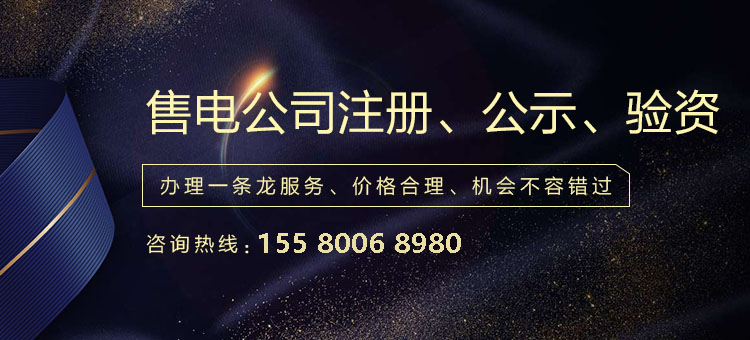
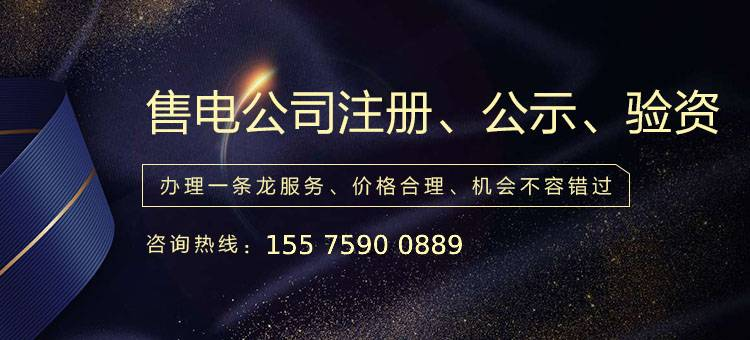
更换号码

diff --git a/h5/src/index.html b/h5/src/index.html
@@ -10,6 +10,9 @@
 		content="长沙迪博-专业的企业财务服务公司,长沙代理记账,公司注册,公司刻章,公司变更,公司注销,个体户注销,异常移出,代理记账,纳税申报,税盘托管,发票领购,个体户建账,财务整理,财税筹划,财务年检,执照年检,银行开户,公积金代办,社保代办,商标注册,商标转让,商标续展,版权申请,专利申请等数十个便捷、诚信的服务，为您提供愉悦的企业服务体验!">
 	<meta name="viewport"
 		content="width=device-width,minimum-scale=1.0,maximum-scale=1.0,user-scalable=no,initial-scale=1.0" />
+	<meta http-equiv="Pragma" content="no-cache">
+	<meta http-equiv="Cache-Control" content="no-cache">
+	<meta http-equiv="Expires" content="0">
 	<meta name="format-detection" content="telephone=no,email=no" />
 	<link rel="stylesheet" type="text/css" href="css/swiper.min.css" />
 	<link rel="stylesheet" type="text/css" href="css/common.css" />
@@ -26,7 +29,7 @@
 					<section class="header_t">
 						<div class="tel">
 							<img class="handle-right" src="/images/hand-right.png"/>
-							<a href="tel:15580068980">
+							<a href="tel:15575900889">
 								<img style="margin-top:0" src="images/tel.png">
 							</a>
 							<a href="tel:18874874833">
@@ -63,29 +66,29 @@
 			<div>
 				<div class="swiper-container-toutiao">
 					<div class="swiper-wrapper">
-						<div class="swiper-slide"><span><a href="tel:15580068980">代理记账</span><i>自己不会、太麻烦，找我们啦</i></a></div>
-						<div class="swiper-slide"><span><a href="tel:15580068980">财务整理</span><i>财务太乱，需要整理</i></a></div>
-						<div class="swiper-slide"><span><a href="tel:15580068980">财税筹划</span><i>财税如何筹划</i></a></div>
-						<div class="swiper-slide"><span><a href="tel:15580068980">财务年检</span><i>年检需要的资料清单</i></a></div>
-						<div class="swiper-slide"><span><a href="tel:15580068980">银行开户</span><i>银行开户注意事项</i></a></div>
-						<div class="swiper-slide"><span><a href="tel:15580068980">社保代办</span><i>代办社保</i></a></div>
-						<div class="swiper-slide"><span><a href="tel:15580068980">个体户建账</span><i>个体户如何建账</i></a></div>
-						<div class="swiper-slide"><span><a href="tel:15580068980">公积金代办</span><i>代理办理公积金</i></a></div>
-						<div class="swiper-slide"><span><a href="tel:15580068980">商标注册</span><i>商标注册的用途</i></a></div>
-						<div class="swiper-slide"><span><a href="tel:15580068980">纳税申报</span><i>申报税务必备材料清单</i></a></div>
-						<div class="swiper-slide"><span><a href="tel:15580068980">公司注册</span><i>公司注册资本认缴制中的奥秘</i></a></div>
-						<div class="swiper-slide"><span><a href="tel:15580068980">公司刻章</span><i></i>刻章注意事项</a></div>
-						<div class="swiper-slide"><span><a href="tel:15580068980">公司变更</span><i>公司变更中的事项</i></a></div>
-						<div class="swiper-slide"><span><a href="tel:15580068980">公司注销</span><i>公司注销需要注意</i></a></div>
-						<div class="swiper-slide"><span><a href="tel:15580068980">异常移出</span><i>异常移出需要的资料清单</i></a></div>
-						<div class="swiper-slide"><span><a href="tel:15580068980">税盘托管</span><i>税盘托管的好处</i></a></div>
-						<div class="swiper-slide"><span><a href="tel:15580068980">发票领购</span><i>发票的注意事项</i></a></div>
-						<div class="swiper-slide"><span><a href="tel:15580068980">商标转让</span><i>商标如何转让</i></a></div>
-						<div class="swiper-slide"><span><a href="tel:15580068980">商标续展</span><i>商标如何续展</i></a></div>
-						<div class="swiper-slide"><span><a href="tel:15580068980">版权申请</span><i>版权的作用</i></a></div>
-						<div class="swiper-slide"><span><a href="tel:15580068980">专利申请</span><i>如何申请专利、申请专利有何用处</i></a>
+						<div class="swiper-slide"><span><a href="tel:15575900889">代理记账</span><i>自己不会、太麻烦，找我们啦</i></a></div>
+						<div class="swiper-slide"><span><a href="tel:15575900889">财务整理</span><i>财务太乱，需要整理</i></a></div>
+						<div class="swiper-slide"><span><a href="tel:15575900889">财税筹划</span><i>财税如何筹划</i></a></div>
+						<div class="swiper-slide"><span><a href="tel:15575900889">财务年检</span><i>年检需要的资料清单</i></a></div>
+						<div class="swiper-slide"><span><a href="tel:15575900889">银行开户</span><i>银行开户注意事项</i></a></div>
+						<div class="swiper-slide"><span><a href="tel:15575900889">社保代办</span><i>代办社保</i></a></div>
+						<div class="swiper-slide"><span><a href="tel:15575900889">个体户建账</span><i>个体户如何建账</i></a></div>
+						<div class="swiper-slide"><span><a href="tel:15575900889">公积金代办</span><i>代理办理公积金</i></a></div>
+						<div class="swiper-slide"><span><a href="tel:15575900889">商标注册</span><i>商标注册的用途</i></a></div>
+						<div class="swiper-slide"><span><a href="tel:15575900889">纳税申报</span><i>申报税务必备材料清单</i></a></div>
+						<div class="swiper-slide"><span><a href="tel:15575900889">公司注册</span><i>公司注册资本认缴制中的奥秘</i></a></div>
+						<div class="swiper-slide"><span><a href="tel:15575900889">公司刻章</span><i></i>刻章注意事项</a></div>
+						<div class="swiper-slide"><span><a href="tel:15575900889">公司变更</span><i>公司变更中的事项</i></a></div>
+						<div class="swiper-slide"><span><a href="tel:15575900889">公司注销</span><i>公司注销需要注意</i></a></div>
+						<div class="swiper-slide"><span><a href="tel:15575900889">异常移出</span><i>异常移出需要的资料清单</i></a></div>
+						<div class="swiper-slide"><span><a href="tel:15575900889">税盘托管</span><i>税盘托管的好处</i></a></div>
+						<div class="swiper-slide"><span><a href="tel:15575900889">发票领购</span><i>发票的注意事项</i></a></div>
+						<div class="swiper-slide"><span><a href="tel:15575900889">商标转让</span><i>商标如何转让</i></a></div>
+						<div class="swiper-slide"><span><a href="tel:15575900889">商标续展</span><i>商标如何续展</i></a></div>
+						<div class="swiper-slide"><span><a href="tel:15575900889">版权申请</span><i>版权的作用</i></a></div>
+						<div class="swiper-slide"><span><a href="tel:15575900889">专利申请</span><i>如何申请专利、申请专利有何用处</i></a>
 						</div>
-						<div class="swiper-slide"><span><a href="tel:15580068980">个体户注销</span><i>个体户如何注销</i></a></div>
+						<div class="swiper-slide"><span><a href="tel:15575900889">个体户注销</span><i>个体户如何注销</i></a></div>
 					</div>
 				</div>
 			</div>
@@ -96,57 +99,57 @@
 		
 		<article class="index_w">
 			<div class="index_w_o">
-				<div class="z"><a href="tel:15580068980"><img src="images/qyfw_logo.png"><span>企业服务</span></a></div>
-				<!-- <div class="y"><a href="tel:15580068980">更多></a></div> -->
+				<div class="z"><a href="tel:15575900889"><img src="images/qyfw_logo.png"><span>企业服务</span></a></div>
+				<!-- <div class="y"><a href="tel:15575900889">更多></a></div> -->
 			</div>
 			<div class="index_w_t p32">
 				<a href="/reg.html" class="a1">
 					<p class="p1">公司注册</p>
 					<p class="p2">专门渠道专人代办 3天拿照</p>
 				</a>
-				<a href="tel:15580068980" class="a2">
+				<a href="tel:15575900889" class="a2">
 					<p class="p1">公司刻章</p>
 					<p class="p2">简单快速 诚信办理</p>
 				</a>
-				<a href="tel:15580068980" class="a8">
+				<a href="tel:15575900889" class="a8">
 					<p class="p1">银行开户</p>
 					<p class="p2">安全快速 一键办理</p>
 				</a>
-				<a href="tel:15580068980" class="a10">
+				<a href="tel:15575900889" class="a10">
 					<p class="p1">社保代办</p>
 					<p class="p2">多年行业经验 值得交付</p>
 				</a>
-				<a href="tel:15580068980" class="a9">
+				<a href="tel:15575900889" class="a9">
 					<p class="p1">公积金代办</p>
 					<p class="p2">方便省心 低成本</p>
 				</a>
-				<a href="tel:15580068980" class="a7">
+				<a href="tel:15575900889" class="a7">
 					<p class="p1">执照年检</p>
 					<p class="p2">贴心省事 竭诚为您服务</p>
 				</a>
-				<a href="tel:15580068980" class="a15">
+				<a href="tel:15575900889" class="a15">
 					<p class="p1">财税筹划</p>
 					<p class="p2">多年行业经验 专业权威</p>
 				</a>
-				<a href="tel:15580068980" class="a21">
+				<a href="tel:15575900889" class="a21">
 					<p class="p1">税务年检</p>
 					<p class="p2">专业服务 保障您的权益</p>
 				</a>
 
-				<a href="tel:15580068980" class="a3">
+				<a href="tel:15575900889" class="a3">
 					<p class="p1">公司变更</p>
 					<p class="p2">专业律师把关 无后顾之忧</p>
 				</a>
-				<a href="tel:15580068980" class="a5">
+				<a href="tel:15575900889" class="a5">
 					<p class="p1">异常移出</p>
 					<p class="p2">全程代办 一站式服务</p>
 				</a>
 
-				<a href="tel:15580068980" class="a4">
+				<a href="tel:15575900889" class="a4">
 					<p class="p1">公司注销</p>
 					<p class="p2">一站式服务 省心高效</p>
 				</a>
-				<a href="tel:15580068980" class="a5">
+				<a href="tel:15575900889" class="a5">
 					<p class="p1">个体户注销</p>
 					<p class="p2">省心省力 贴心服务</p>
 				</a>
@@ -154,31 +157,31 @@
 		</article>
 		<article class="index_w index_j">
 			<div class="index_w_o">
-				<div class="z"><a href="tel:15580068980"><img src="images/cssj_logo.png"><span>财税服务</span></a></div>
-				<!-- <div class="y"><a href="tel:15580068980">更多></a></div> -->
+				<div class="z"><a href="tel:15575900889"><img src="images/cssj_logo.png"><span>财税服务</span></a></div>
+				<!-- <div class="y"><a href="tel:15575900889">更多></a></div> -->
 			</div>
 			<div class="index_w_t p32">
 				<a href="/proxy.html" class="a9">
 					<p class="p1">代理记账</p>
 					<p class="p2">专业的人员 丰富的经验知识</p>
 				</a>
-				<a href="tel:15580068980" class="a11">
+				<a href="tel:15575900889" class="a11">
 					<p class="p1">纳税申报</p>
 					<p class="p2">正规机构 价格公开透明</p>
 				</a>
-				<a href="tel:15580068980" class="a6">
+				<a href="tel:15575900889" class="a6">
 					<p class="p1">发票领购</p>
 					<p class="p2">正规机构 安全贴心 </p>
 				</a>
-				<a href="tel:15580068980" class="a18">
+				<a href="tel:15575900889" class="a18">
 					<p class="p1">税盘托管</p>
 					<p class="p2">正规注册机构 成功服务万家企业</p>
 				</a>
-				<a href="tel:15580068980" class="a6">
+				<a href="tel:15575900889" class="a6">
 					<p class="p1">账务整理</p>
 					<p class="p2">专业、细心 让心中有数、一目了然</p>
 				</a>
-				<a href="tel:15580068980" class="a11">
+				<a href="tel:15575900889" class="a11">
 					<p class="p1">个体户建账</p>
 					<p class="p2">专业机构 服务众多知名企业</p>
 				</a>
@@ -186,31 +189,31 @@
 		</article>
 		<article class="index_w index_b">
 			<div class="index_w_o">
-				<div class="z"><a href="tel:15580068980"><img src="images/sbfw_logo.png"><span>专利服务</span></a></div>
-				<!-- <div class="y"><a href="tel:15580068980">更多></a></div> -->
+				<div class="z"><a href="tel:15575900889"><img src="images/sbfw_logo.png"><span>专利服务</span></a></div>
+				<!-- <div class="y"><a href="tel:15575900889">更多></a></div> -->
 			</div>
 			<div class="index_w_t p32">
 				<a href="/busreg.html" class="a13">
 					<p class="p1">商标注册</p>
 					<p class="p2">服务实时监控 随时处理问题</p>
 				</a>
-				<a href="tel:15580068980" class="a14">
+				<a href="tel:15575900889" class="a14">
 					<p class="p1">商标变更</p>
 					<p class="p2">全程代办 一站式服务</p>
 				</a>
-				<a href="tel:15580068980" class="a5">
+				<a href="tel:15575900889" class="a5">
 					<p class="p1">商标转让</p>
 					<p class="p2">服务众多知名企业 助力企业发展</p>
 				</a>
-				<a href="tel:15580068980" class="a4">
+				<a href="tel:15575900889" class="a4">
 					<p class="p1">商标续展</p>
 					<p class="p2">多年行业经验 值得信赖</p>
 				</a>
-				<a href="tel:15580068980" class="a6">
+				<a href="tel:15575900889" class="a6">
 					<p class="p1">专利申请</p>
 					<p class="p2">正规注册机构 成功服务万家企业</p>
 				</a>
-				<a href="tel:15580068980" class="a7">
+				<a href="tel:15575900889" class="a7">
 					<p class="p1">版权申请</p>
 					<p class="p2">速度快 服务好</p>
 				</a>

diff --git a/h5/src/about.html b/h5/src/about.html
@@ -11,6 +11,9 @@
 	<meta name="viewport"
 		content="width=device-width,minimum-scale=1.0,maximum-scale=1.0,user-scalable=no,initial-scale=1.0" />
 	<meta name="format-detection" content="telephone=no,email=no" />
+	<meta http-equiv="Pragma" content="no-cache">
+	<meta http-equiv="Cache-Control" content="no-cache">
+	<meta http-equiv="Expires" content="0">
 	<link rel="stylesheet" type="text/css" href="css/common.css" />
 	<link rel="stylesheet" type="text/css" href="css/index.css" />
 </head>
@@ -25,7 +28,7 @@
 					<section class="header_t">
 						<div class="tel">
 								<img class="handle-right" src="/images/hand-right.png"/>
-							<a href="tel:15580068980">
+							<a href="tel:15575900889">
 								<img src="images/tel.png">
 							</a>
 							<a href="tel:18874874833">
@@ -41,7 +44,7 @@
 		</header>
 	
 		<!--列表详情页-->
-		<article class="list_o"></article>
+		<!-- <article class="list_o"></article>
 		<div class="detail_o">
 				<section class="index_shi_o">
 					<a href="case.html">
@@ -50,7 +53,7 @@
 					</a>
 				</section>
 				<section class="detail_t_o">
-						<a href="tel:15580068980">
+						<a href="tel:15575900889">
 					<img src="./images/haiping_card.jpg"/>
 					</a>
 				</section>
@@ -59,7 +62,7 @@
 					<img src="./images/wxx_card.jpg"/>
 					</a>
 				</section>
-			</div>
+			</div> -->
 		<article class="detail_t p32">
 			<section class="index_shi_o">
 				<a href="case.html">

diff --git a/h5/src/contact.html b/h5/src/contact.html
@@ -11,6 +11,9 @@
 	<meta name="viewport"
 		content="width=device-width,minimum-scale=1.0,maximum-scale=1.0,user-scalable=no,initial-scale=1.0" />
 	<meta name="format-detection" content="telephone=no,email=no" />
+	<meta http-equiv="Pragma" content="no-cache">
+	<meta http-equiv="Cache-Control" content="no-cache">
+	<meta http-equiv="Expires" content="0">
 	<link rel="stylesheet" type="text/css" href="css/common.css" />
 	<link rel="stylesheet" type="text/css" href="css/index.css" />
 </head>
@@ -25,7 +28,7 @@
 					<section class="header_t">
 						<div class="tel">
 								<img class="handle-right" src="/images/hand-right.png"/>
-							<a href="tel:15580068980">
+							<a href="tel:15575900889">
 								<img src="images/tel.png">
 							</a>
 							<a href="tel:18874874833">
@@ -48,7 +51,7 @@
 			<section class="contact_o_o">
 				<div class="s">
 					<ul>
-						<li class="li2">杨会计: <b><a href="tel:15580068980">155 8006 8980</a></b> (微信同号)</li>
+						<li class="li2">杨会计: <b><a href="tel:15575900889">155 7590 0889</a></b> (微信同号)</li>
 						<li class="li2">王会计: <b><a href="tel:18874874833">188 7487 4833</a></b> (微信同号)</li>
 						<li class="li3"></li>
 					</ul>

diff --git a/h5/src/proxy.html b/h5/src/proxy.html
@@ -11,6 +11,9 @@
     <meta name="viewport"
         content="width=device-width,minimum-scale=1.0,maximum-scale=1.0,user-scalable=no,initial-scale=1.0" />
     <meta name="format-detection" content="telephone=no,email=no" />
+    <meta http-equiv="Pragma" content="no-cache">
+	<meta http-equiv="Cache-Control" content="no-cache">
+	<meta http-equiv="Expires" content="0">
     <link rel="stylesheet" type="text/css" href="css/common.css" />
     <link rel="stylesheet" type="text/css" href="css/index.css" />
     <style>
@@ -31,7 +34,7 @@
                     <section class="header_t">
                         <div class="tel">
                                 <img class="handle-right" src="/images/hand-right.png"/>
-                            <a href="tel:15580068980">
+                            <a href="tel:15575900889">
                                 <img style="margin-top:0" src="images/tel.png">
                             </a>
                             <a href="tel:18874874833">

diff --git a/h5/src/js/sh.js b/h5/src/js/sh.js
@@ -74,7 +74,7 @@ function loadHtml(data) {
      if(pages == zheng*10){
     	for (var i = pages; i < pages + yu; i++) {
 	        var item = data[i];
-	            html += '<a href="tel:15580068980" class="new">';
+	            html += '<a href="tel:15575900889" class="new">';
 	            html += '<div class="z">'+item.imagess+'</div>';
 	            html += '<div class="y"><span class="sp">' + item.title + '</span>';
 	            html += '<p>' + item.detail + '</p>';
@@ -85,7 +85,7 @@ function loadHtml(data) {
     }else{
     	for (var i = pages; i < pages + 10; i++) {
 	        var item = data[i];
-	            html += '<a href="tel:15580068980" class="new">';
+	            html += '<a href="tel:15575900889" class="new">';
 	            html += '<div class="z">'+item.imagess+'</div>';
 	            html += '<div class="y"><span class="sp">' + item.title + '</span>';
 	            html += '<p>' + item.detail + '</p>';

diff --git a/h5/src/case.html b/h5/src/case.html
@@ -10,6 +10,9 @@
 			<meta name="viewport"
 				content="width=device-width,minimum-scale=1.0,maximum-scale=1.0,user-scalable=no,initial-scale=1.0" />
 			<meta name="format-detection" content="telephone=no,email=no" />
+			<meta http-equiv="Pragma" content="no-cache">
+	<meta http-equiv="Cache-Control" content="no-cache">
+	<meta http-equiv="Expires" content="0">
    		<link rel="stylesheet" type="text/css" href="css/common.css"/>
    		<link rel="stylesheet" type="text/css" href="css/index.css"/>
 	</head>
@@ -23,7 +26,7 @@
 				<section class="header_t">
 					<div class="tel">
 							<img class="handle-right" src="/images/hand-right.png"/>
-						<a href="tel:15580068980">
+						<a href="tel:15575900889">
 							<img src="images/tel.png">
 						</a>
 						<a href="tel:18874874833">

diff --git a/h5/src/busreg.html b/h5/src/busreg.html
@@ -11,6 +11,9 @@
 	<meta name="viewport"
 		content="width=device-width,minimum-scale=1.0,maximum-scale=1.0,user-scalable=no,initial-scale=1.0" />
 	<meta name="format-detection" content="telephone=no,email=no" />
+	<meta http-equiv="Pragma" content="no-cache">
+	<meta http-equiv="Cache-Control" content="no-cache">
+	<meta http-equiv="Expires" content="0">
 	<link rel="stylesheet" type="text/css" href="css/common.css" />
 	<link rel="stylesheet" type="text/css" href="css/index.css" />
 </head>
@@ -25,7 +28,7 @@
 					<section class="header_t">
 						<div class="tel">
 								<img class="handle-right" src="/images/hand-right.png"/>
-							<a href="tel:15580068980">
+							<a href="tel:15575900889">
 								<img src="images/tel.png">
 							</a>
 							<a href="tel:18874874833">

diff --git a/h5/src/reg.html b/h5/src/reg.html
@@ -11,6 +11,9 @@
 	<meta name="viewport"
 		content="width=device-width,minimum-scale=1.0,maximum-scale=1.0,user-scalable=no,initial-scale=1.0" />
 	<meta name="format-detection" content="telephone=no,email=no" />
+	<meta http-equiv="Pragma" content="no-cache">
+	<meta http-equiv="Cache-Control" content="no-cache">
+	<meta http-equiv="Expires" content="0">
 	<link rel="stylesheet" type="text/css" href="css/common.css" />
 	<link rel="stylesheet" type="text/css" href="css/index.css" />
 </head>
@@ -25,7 +28,7 @@
 					<section class="header_t">
 						<div class="tel">
 								<img class="handle-right" src="/images/hand-right.png"/>
-							<a href="tel:15580068980">
+							<a href="tel:15575900889">
 								<img src="images/tel.png">
 							</a>
 							<a href="tel:18874874833">
